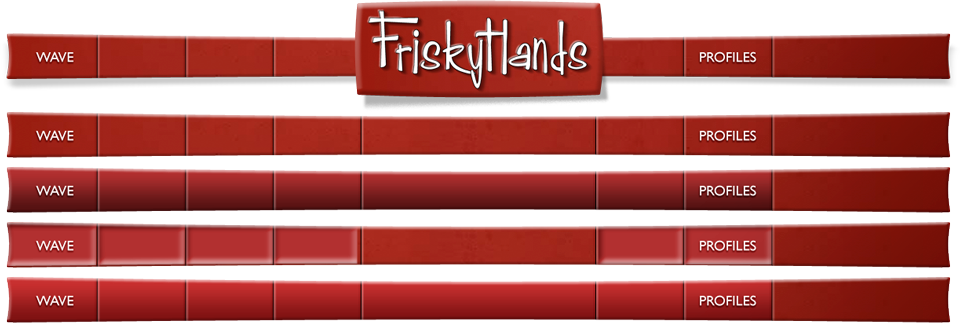
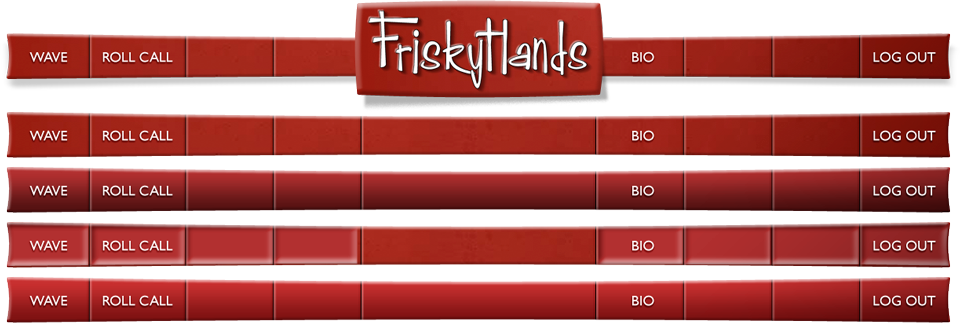
Fixed highlight for logout menuitem. Facebook anchor in secondary header

diff --git a/public/stylesheets/friskyhands/application.css b/public/stylesheets/friskyhands/application.css
@@ -133,11 +133,22 @@ span.profile {
 }
 
 .header.primary { 
+    position: relative;
 	background: url(/images/friskyhands/header.png) no-repeat top center;
 	width: 960px;
 	height: 110px;
 	margin: 10px auto;
 	padding: 0;
+}
+
+.header.primary a.badge {
+    position: absolute;
+    display: block;
+    top: 8px;
+    left: 360px;
+    width: 236px;
+    height: 82px;
+    text-indent: -1000em;
 }
 
 .header.primary ul.nav {
@@ -158,83 +169,137 @@ span.profile {
 
 /* * * */
 
-.header.primary ul.nav li#nav-wave {
+.header.primary ul.nav li#nav-1 {
 	top: 32px;
 	left: 0px;
 }
 
-.header.primary ul.nav li#nav-wave a {
-	width: 98px;
+.header.primary ul.nav li#nav-1 a {
+	width: 90px;
 	height: 46px;
 	background-position: 0 -110px;
 }
 
-.header.primary ul.nav li#nav-wave a:hover,
-.header.primary ul.nav li#nav-wave.current a:hover {
+.header.primary ul.nav li#nav-1 a:hover,
+.header.primary ul.nav li#nav-1.current a:hover {
 	background-position: 0 -165px;
 }
 
-.header.primary ul.nav li#nav-wave a:active,
-.header.primary ul.nav li#nav-wave.current a:active {
+.header.primary ul.nav li#nav-1 a:active,
+.header.primary ul.nav li#nav-1.current a:active {
 	background-position: 0 -220px;
 }
 
-.header.primary ul.nav li#nav-wave.current a {
+.header.primary ul.nav li#nav-1.current a {
 	background-position: 0 -275px;
 }
 
 /* * * */
 
-.header.primary ul.nav li#nav-inbox {
+.header.primary ul.nav li#nav-2 {
+	top: 32px;
+	left: 90px;
+}
+
+.header.primary ul.nav li#nav-2 a {
+	width: 94px;
+	height: 46px;
+	background-position: -90px -110px;
+}
+
+.header.primary ul.nav li#nav-2 a:hover,
+.header.primary ul.nav li#nav-2.current a:hover {
+    background-position: -90px -165px;
+}
+
+.header.primary ul.nav li#nav-2 a:active,
+.header.primary ul.nav li#nav-2.current a:active {
+    background-position: -90px -220px;
+}
+
+.header.primary ul.nav li#nav-2.current a {
+    background-position: -90px -275px;
+}
+
+/* * * */
+
+.header.primary ul.nav li#nav-5 {
 	top: 32px;
 	left: 604px;
 }
 
-.header.primary ul.nav li#nav-inbox a {
+.header.primary ul.nav li#nav-5 a {
 	width: 80px;
 	height: 50px;
 	background-position: -604px -110px;
 }
 
-.header.primary ul.nav li#nav-inbox a:hover,
-.header.primary ul.nav li#nav-inbox.current a:hover {
+.header.primary ul.nav li#nav-5 a:hover,
+.header.primary ul.nav li#nav-5.current a:hover {
 	background-position: -604px -165px;
 }
 
-.header.primary ul.nav li#nav-inbox a:active,
-.header.primary ul.nav li#nav-inbox.current a:active {
+.header.primary ul.nav li#nav-5 a:active,
+.header.primary ul.nav li#nav-5.current a:active {
 	background-position: -604px -220px;
 }
 
-.header.primary ul.nav li#nav-inbox.current a {
+.header.primary ul.nav li#nav-5.current a {
 	background-position: -604px -275px;
 }
 
 /* * * */
 
-.header.primary ul.nav li#nav-profile {
+.header.primary ul.nav li#nav-6 {
 	top: 32px;
 	left: 684px;
 }
 
-.header.primary ul.nav li#nav-profile a {
+.header.primary ul.nav li#nav-6 a {
 	width: 88px;
 	height: 46px;
 	background-position: -684px -110px;
 }
 
-.header.primary ul.nav li#nav-profile a:hover,
-.header.primary ul.nav li#nav-profile.current a:hover {
+.header.primary ul.nav li#nav-6 a:hover,
+.header.primary ul.nav li#nav-6.current a:hover {
 	background-position: -684px -165px;
 }
 
-.header.primary ul.nav li#nav-profile a:active,
-.header.primary ul.nav li#nav-profile.current a:active {
+.header.primary ul.nav li#nav-6 a:active,
+.header.primary ul.nav li#nav-6.current a:active {
 	background-position: -684px -220px;
 }
 
-.header.primary ul.nav li#nav-profile.current a {
+.header.primary ul.nav li#nav-6.current a {
 	background-position: -684px -275px;
+}
+
+/* * * */
+
+.header.primary ul.nav li#nav-8 {
+	top: 32px;
+	left: 862px;
+}
+
+.header.primary ul.nav li#nav-8 a {
+	width: 88px;
+	height: 46px;
+	background-position: -862px -110px;
+}
+
+.header.primary ul.nav li#nav-8 a:hover,
+.header.primary ul.nav li#nav-8.current a:hover {
+    background-position: -862px -165px;
+}
+
+.header.primary ul.nav li#nav-8 a:active,
+.header.primary ul.nav li#nav-8.current a:active {
+    background-position: -862px -220px;
+}
+
+.header.primary ul.nav li#nav-8.current a {
+    background-position: -862px -275px;
 }
 
 /* * * */
@@ -274,14 +339,16 @@ span.profile {
 
 a.web_logos {
 	background: url(/images/web_logos.png);
-	width: 18px;
-	height: 18px;
+	width: 14px;
+	height: 14px;
 	display: inline-block;
 	position: relative;
 	top: 4px;
 	margin: 0 3px;
+	border-bottom: none !important;
+	text-decoration: none;
 }
 
-a.web_logos.facebook {
+a.facebook {
 	background-position: -96px 0;
 }

diff --git a/public/stylesheets/friskyhands/postings/post_it.css b/public/stylesheets/friskyhands/postings/post_it.css
@@ -10,13 +10,13 @@
     position: relative;
     float: left;
     top: -20px;
-    left: -10px;
+    left: -12px;
     margin-bottom: 10px;
     -webkit-box-shadow: 3px 3px 4px #873;
     -moz-box-shadow: 3px 3px 4px #873;
     box-shadow: 3px 3px 4px #873;
-    -webkit-transform: rotate(-5deg);
-    -moz-transform: rotate(-deg);
+    -webkit-transform: rotate(-6deg);
+    -moz-transform: rotate(-6deg);
 }
 
 .wave .post_it {

diff --git a/app/controllers/waves/polaroids_controller.rb b/app/controllers/waves/polaroids_controller.rb
@@ -3,7 +3,7 @@ class Waves::PolaroidsController < Waves::BaseController
   PolaroidWave   = Struct.new('PolaroidWave', :id, :topic, :postings)
   PolaroidWaveID = '000'
 
-  def index    
+  def index
     postings = Wave::Profile.avatars
     @wave = PolaroidWave.new(PolaroidWaveID, 'Polaroids', postings)
     respond_to do |format|

diff --git a/config/routes.rb b/config/routes.rb
@@ -7,6 +7,8 @@ Friskyfactory::Application.routes.draw do |map|
     end
   end
 
+  get 'rollcall', :controller => 'waves/polaroids', :action => :index
+  
   # To show waves
   namespace :waves do
     resources :polaroids, :only => [ :index ]
